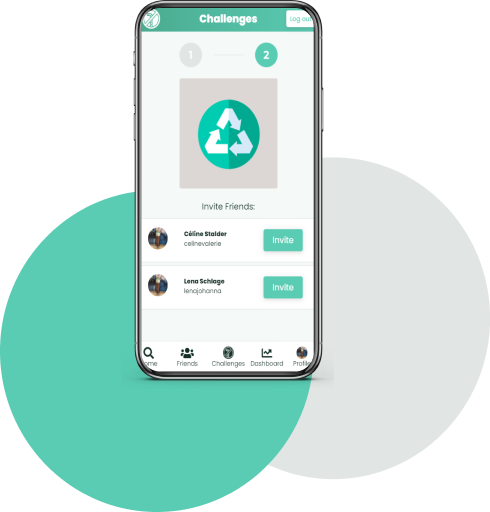
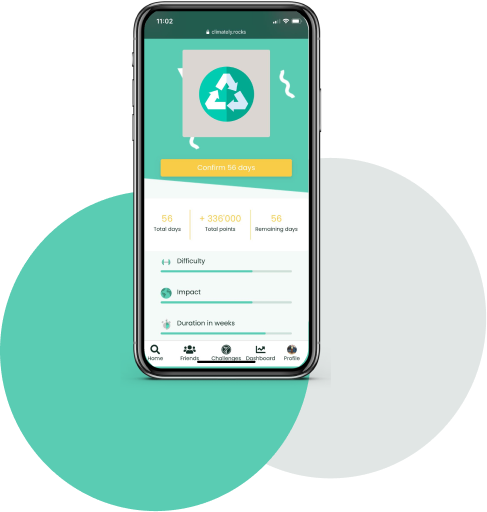
points calculation

diff --git a/app/javascript/controllers/slider_controller.js b/app/javascript/controllers/slider_controller.js
@@ -1,7 +1,7 @@
 import { Controller } from "stimulus";
 
 export default class extends Controller {
-  static targets = [ 'difficulty', 'exceptions', 'impact', 'duration' ];
+  static targets = [ 'difficulty', 'exceptions', 'impact', 'duration', 'points' ];
 
   calculateDifficulty(event) {
     fetch('/challenges', { headers: { accept: "application/json" } })
@@ -19,7 +19,20 @@ export default class extends Controller {
           const challenge = data.challenges.find(challenge => challenge.id == event.target.dataset.id);
           var impactCalculated = challenge.default_impact * this.durationTarget.value
           this.impactTarget.style.width = (impactCalculated * 3) +"px"
-          console.log(this.durationTarget.style.width)
+        });
+  }
+  calculatePoints(event) {
+      fetch('/challenges', { headers: { accept: "application/json" } })
+        .then(response => response.json())
+        .then((data) => {
+          const challenge = data.challenges.find(challenge => challenge.id == event.target.dataset.id);
+          var impactCalculated = challenge.default_impact * this.durationTarget.value
+          var difficultyCalculated = challenge.default_difficulty - this.exceptionsTarget.value
+          var points = impactCalculated * difficultyCalculated * 10
+          this.pointsTarget.innerText = `${points} points`
         });
   }
 }
+
+
+// @impact * 1 + @difficulty * 1 )* 10

diff --git a/app/controllers/groups_controller.rb b/app/controllers/groups_controller.rb
@@ -30,6 +30,9 @@ class GroupsController < ApplicationController
   def new
     @challenge = Challenge.find(params[:challenge_id])
     @group = Group.new
+    @impact = @challenge.default_impact.to_i
+    @difficulty = @challenge.default_impact.to_i
+    @group.impact = (@challenge.default_impact.to_i * @group.duration.to_i)
     authorize @group
   end
 
@@ -47,7 +50,7 @@ class GroupsController < ApplicationController
       @group.difficulty = @group.challenge.default_difficulty - @group.exceptions
     end
     @group.impact = (@group.challenge.default_impact * @group.duration)
-    @group.points = @group.difficulty * @group.impact
+    @group.points = @group.difficulty * @group.impact * 10
     @users_group = UserGroup.new(group: @group, user: current_user, status: 'active')
     @users_group.group = @group
 
@@ -71,6 +74,12 @@ class GroupsController < ApplicationController
   end
   end
 
+  def calculate_points
+    @group.difficulty = @group.challenge.default_difficulty - @group.exceptions
+    @group.impact = (@group.challenge.default_impact * @group.duration)
+    @group.points = @group.difficulty * @group.impact * 10
+  end
+
   def completed
     @group = Group.find(params[:id])
     @group.update_attribute(:completed, 'true')
@@ -90,6 +99,6 @@ class GroupsController < ApplicationController
   end
 
   def group_params
-    params.require(:group).permit(:completed, :difficulty, :impact, :duration, :exceptions, :points)
+    params.require(:group).permit(:calculate_points, :completed, :difficulty, :impact, :duration, :exceptions, :points)
   end
 end
